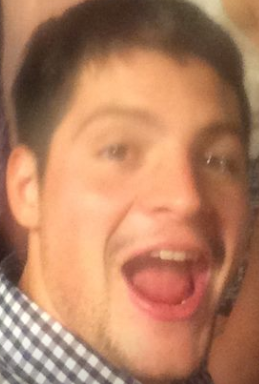
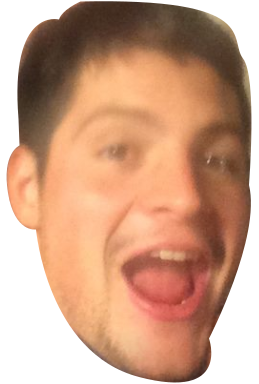
This works

Changed region(s): [[0.0, 0.0, 1.0, 1.0]]

diff --git a/src/sprites/Dick.js b/src/sprites/Dick.js
@@ -8,30 +8,26 @@ export default class extends GameObjects.Sprite {
         super(config.scene, config.x, config.y, config.key);
         config.scene.physics.world.enable(this);
         config.scene.add.existing(this);
-        this.boaty = this.scene.boaty;
-        this.scene.physics.add.collider(this, this.boaty, this.boatyHit, this.boatyHit, this);
+        this.jimmy = this.scene.jimmy;
+        this.scene.physics.add.collider(this, this.jimmy, this.getEaten, this.getEaten, this);
         this.eaten = false;
-        this.body.velocity.x = -1000;
+        this.body.velocity.x = -500;
         this.acceleration = 0;
         this.body.maxVelocity.y = 0;
         this.body.setSize(200, 20);
         this.setScale(0.3, 0.3);
     }
 
-    boatyHit(mine, boaty) {
-        this.boaty.die();
-        return true;
-    }
-
     getEaten() {
-        this.jimmy.eatADick();
         this.eaten = true;
     }
 
     update() {
         let xRightBoundary = this.x + this.displayWidth / 2;
+        if (this.eaten) {
+            this.jimmy.eatADick();
+        }
         if (xRightBoundary <= 0 || this.eaten) {
-            this.scene.incrementScore();
             this.scene.enemies.remove(this);
             this.destroy();
         }

diff --git a/src/scenes/GameScene.js b/src/scenes/GameScene.js
@@ -27,9 +27,9 @@ class GameScene extends Scene {
             fill: '#fff',
         });
 
-        this.boaty = new Jimmy({
+        this.jimmy = new Jimmy({
             scene: this,
-            key: 'boaty',
+            key: 'jimmy',
             x: this.width / 8,
             y: this.height / 7,
         });
@@ -38,7 +38,7 @@ class GameScene extends Scene {
         this.enemies = this.add.group();
 
         this.time.addEvent({
-            delay: 2000,
+            delay: 1000,
             callback: this.addDick,
             callbackScope: this,
             loop: true,
@@ -56,13 +56,14 @@ class GameScene extends Scene {
     }
 
     update() {
-        this.boaty.update(this.isJump || this.spaceJump.isDown);
+        this.jimmy.update(this.isJump || this.spaceJump.isDown);
         this.enemies.children.entries.forEach((element) => {
             element.update();
         });
-        if (!this.boaty.alive) {
-            this.scene.start('GameOverScene', {score: this.score});
-        }
+        this.scoreText.setText(this.jimmy.dicksEaten);
+        // if (!this.boaty.alive) {
+        //     this.scene.start('GameOverScene', {score: this.score});
+        // }
     }
 
     enemySpawnYValue() {

diff --git a/src/scenes/BootScene.js b/src/scenes/BootScene.js
@@ -12,10 +12,7 @@ class BootScene extends Scene {
         this.load.image('water', 'images/water.png');
         this.load.image('ground', 'images/sandy-bottom.png');
         this.load.image('dick', 'images/dick.png');
-        this.load.image('mine', 'images/sea_mine.png');
-        this.load.image('boaty', 'images/jimmy.png');
-        this.load.image('whale', 'images/whale.png');
-        this.load.image('crab', 'images/crab.png');
+        this.load.image('jimmy', 'images/jimmy2.png');
         this.load.image('play-again', 'images/play_again.png');
     }
 

diff --git a/src/sprites/Jimmy.js b/src/sprites/Jimmy.js
@@ -12,7 +12,7 @@ export default class Jimmy extends Phaser.GameObjects.Sprite {
         this.body.maxVelocity.x = 300;
         this.alive = true;
         this.body.setCollideWorldBounds(true);
-        this.body.setSize(50, 50);
+        this.body.setSize(100, 175);
         this.dicksEaten = 0;
     }
 
@@ -31,9 +31,6 @@ export default class Jimmy extends Phaser.GameObjects.Sprite {
         }
     }
 
-    die() {
-        this.alive = false;
-    }
     eatADick() {
         this.dicksEaten++;
     }

diff --git a/src/scenes/TitleScene.js b/src/scenes/TitleScene.js
@@ -19,8 +19,8 @@ class TitleScene extends Scene {
             .setScale(10, 0.5)
             .refreshBody();
 
-        this.title = this.add.text(width / 10, height / 10, 'Boaty Boat', {
-            fontSize: width / 12 + 'px',
+        this.title = this.add.text(width / 10, height / 10, 'Jimmy Eats Dicks', {
+            fontSize: width / 10 + 'px',
             fill: '#fff',
         });
         this.pressStart = this.add.text(0, 0, 'TAP TO START', {
